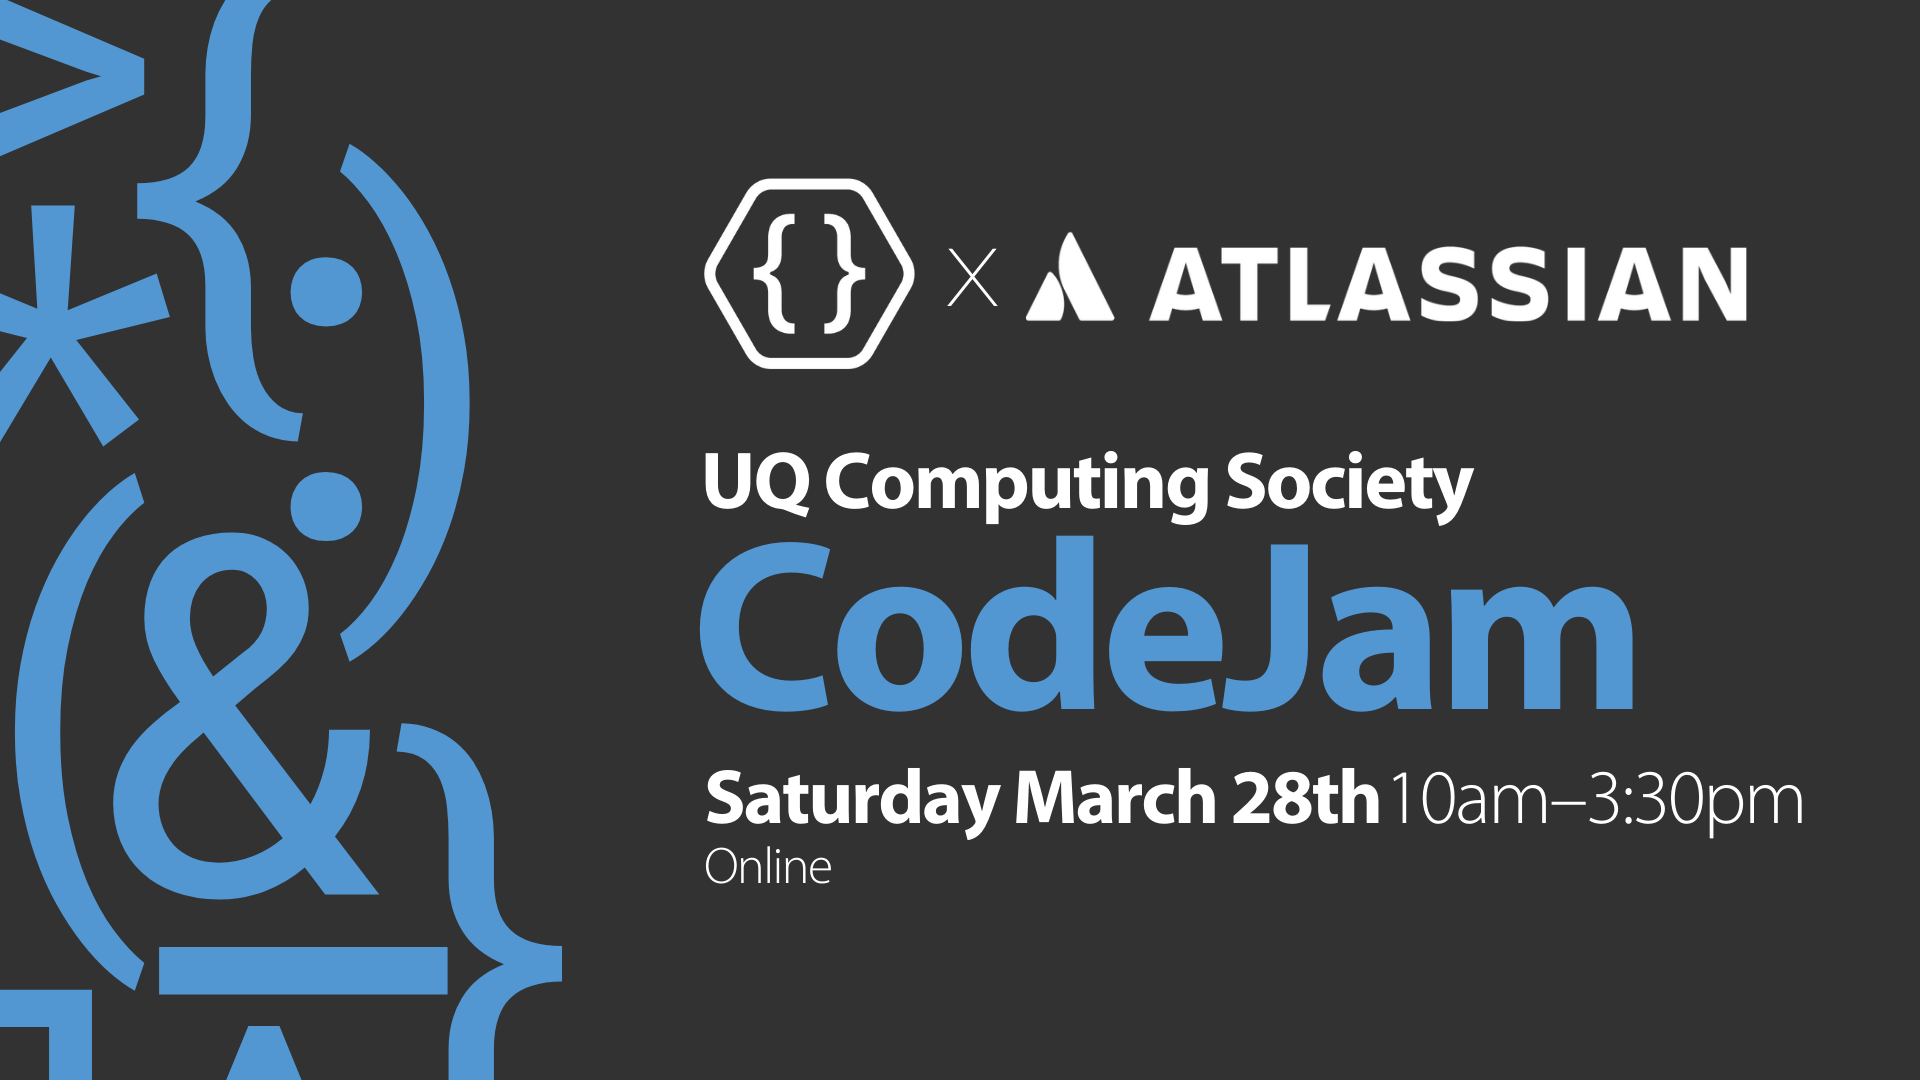
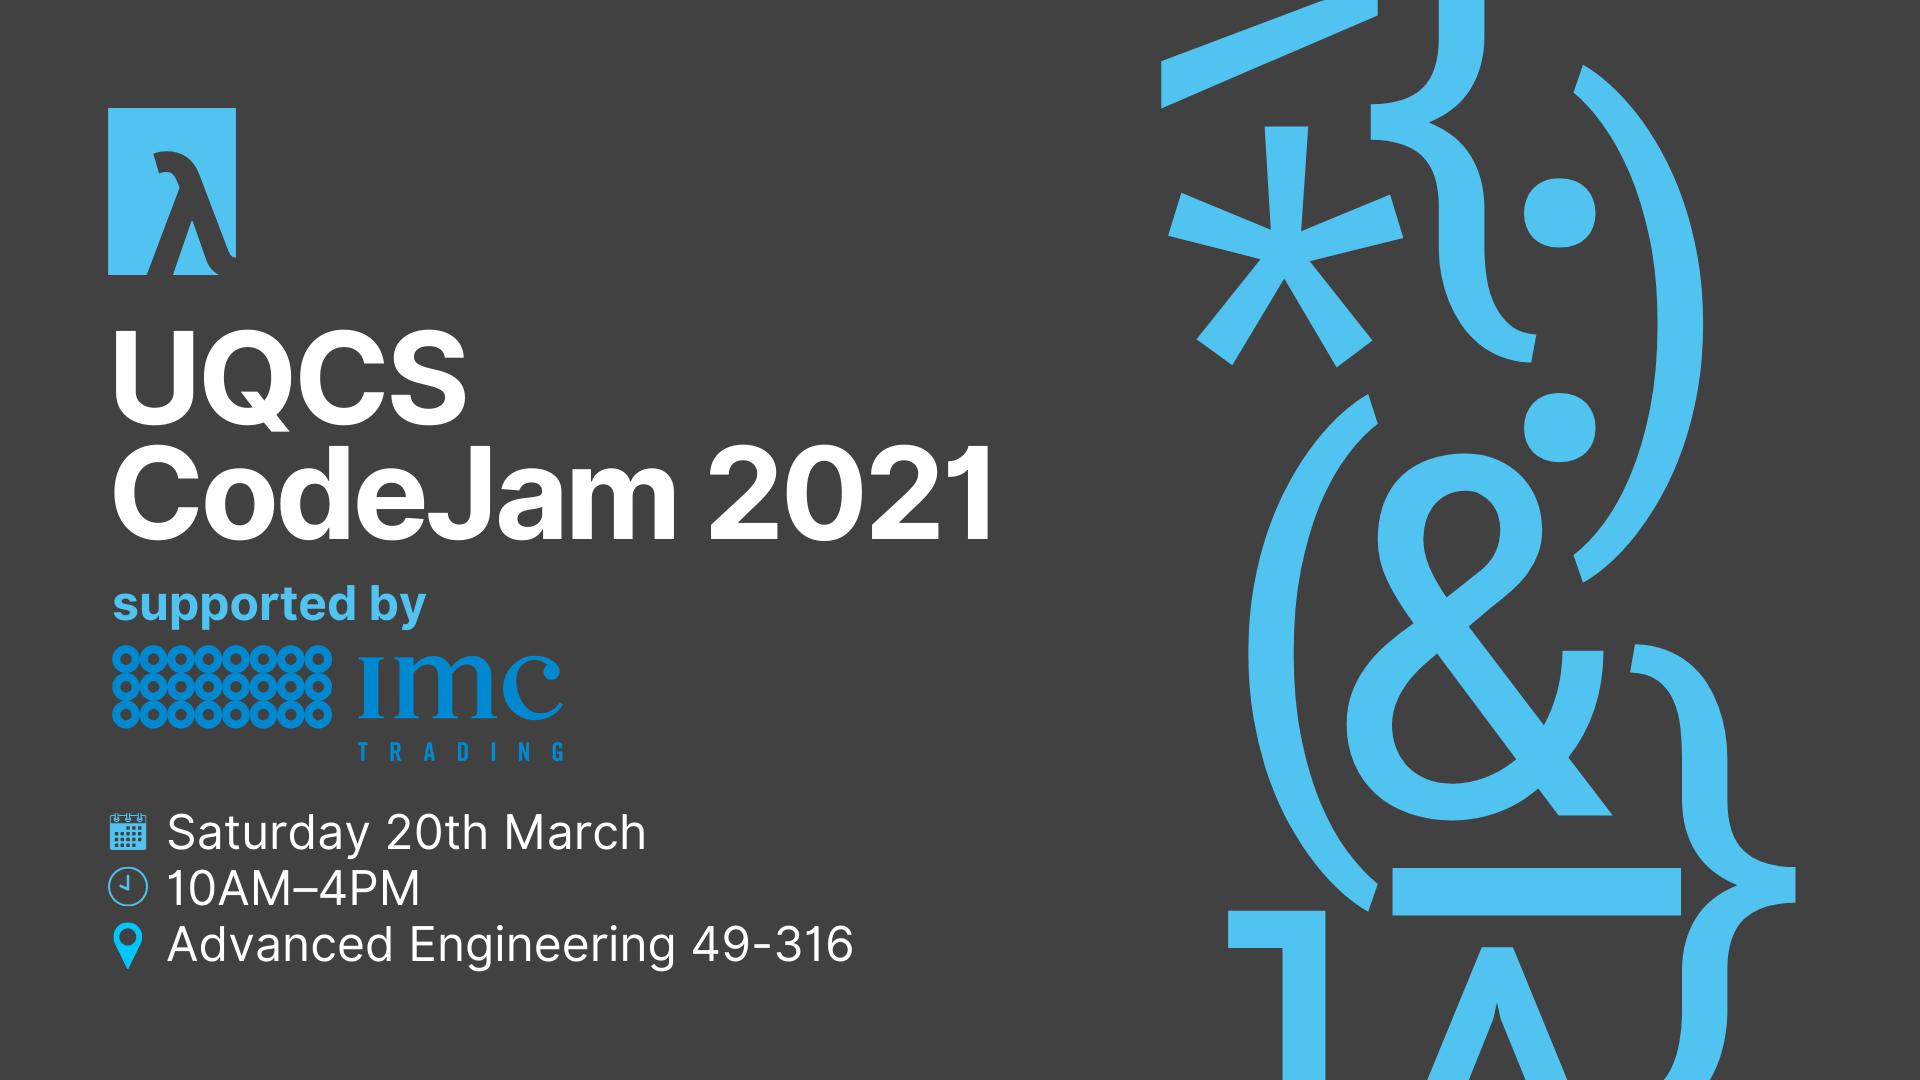
CodeJam 2021 (based mostly off 2020), with minor changes. Also removed Hackathon 2020 from the Competitions index.html so as to avoid confusion for people navigating through the website)

Changed region(s): [[0.0, 0.0, 0.9375, 1.0], [0.5938, 0.0, 0.7188, 0.0917], [0.375, 0.7944, 0.4375, 0.825]]

diff --git a/content/competitions/codejam.html b/content/competitions/codejam.html
@@ -8,19 +8,15 @@ draft: false
     <section class="column is-6">
 
         <div class="block">
-            <a href="https://www.facebook.com/events/659245534649313/">
-                <img src="{{< baseurl >}}/img/media/codejam_banner.png" style="width: 100%" />
+            <a href="https://fb.me/e/42v91HFQA">
+                <img src="/img/media/codejam_banner.png" style="width: 100%" />
             </a>
         </div>
 
-        <h1 class="title is-3">UQCS CodeJam 2020 (presented by Atlassian)</h1>
-        <h2 class="subtitle is-4">10am &ndash; 3:30pm, Saturday 28th March</h2>
+        <h1 class="title is-3">UQCS CodeJam 2021 (presented by IMC)</h1>
+        <h2 class="subtitle is-4">10am &ndash; 4pm, Saturday 20th March</h2>
 
         <div class="content">
-            <h4>
-                <a href="https://www.hackerrank.com/uqcs-codejam-2020">Contest now open on HackerRank</a>.<br />
-                Sign up to compete and get on the leaderboard!
-            </h4>
 
             <p>The UQCS CodeJam is an individual competitive programming competition. You get a list of questions to
                 solve varying
@@ -29,7 +25,7 @@ draft: false
             <p>It’s a fun challenge to get experience in these styles of questions, which are often asked by employers
                 in technical interviews.</p>
             <p>Keep reading to find out more about the competition and what to expect. If you have any questions, reach
-                out to the <a href="https://www.facebook.com/events/659245534649313/">Facebook event</a> or <a
+                out to the <a href="https://fb.me/e/42v91HFQA">Facebook event</a> or <a
                     href="http://slack.uqcs.org/">Slack community</a>.</p>
 
             <h3>So how does it all work?</h3>
@@ -61,7 +57,7 @@ draft: false
             </p>
 
             <h3>Prizes!</h3>
-            <p>We have prizes for best overall and the top first-year, sponsored by Atlassian.</p>
+            <p>We have prizes for best overall and the top first-year, sponsored by <a href="https://www.imc.com/ap/">IMC</a>.</p>
             <table>
 
                 <tbody>

diff --git a/content/competitions/_index.html b/content/competitions/_index.html
@@ -15,9 +15,7 @@ draft: false
                 We usually run two major competitive events each year: the UQCS CodeJam in Semester 1, and the UQCS Hackathon in Semester 2.
             </p>
 
-            <h4><a href="hackathon-2020">UQCS Hackathon 2020</a> (16th &ndash; 18th October)</h4>
-
-            <h4><a href="codejam-2020">UQCS CodeJam 2020</a> (28th March)</h4>
+            <h4><a href="codejam">UQCS CodeJam 2021</a> (20th March)</h4>
         </div>
     </section>
 </div>
